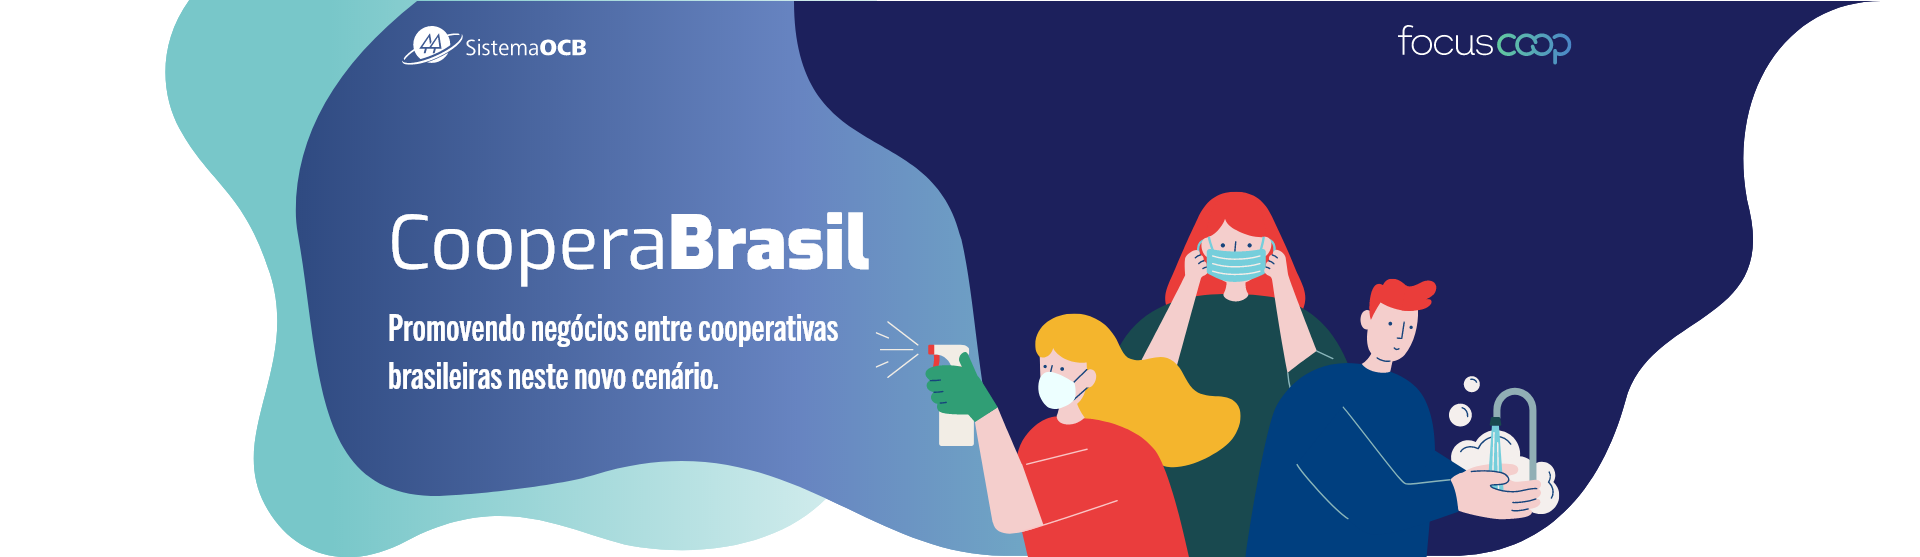
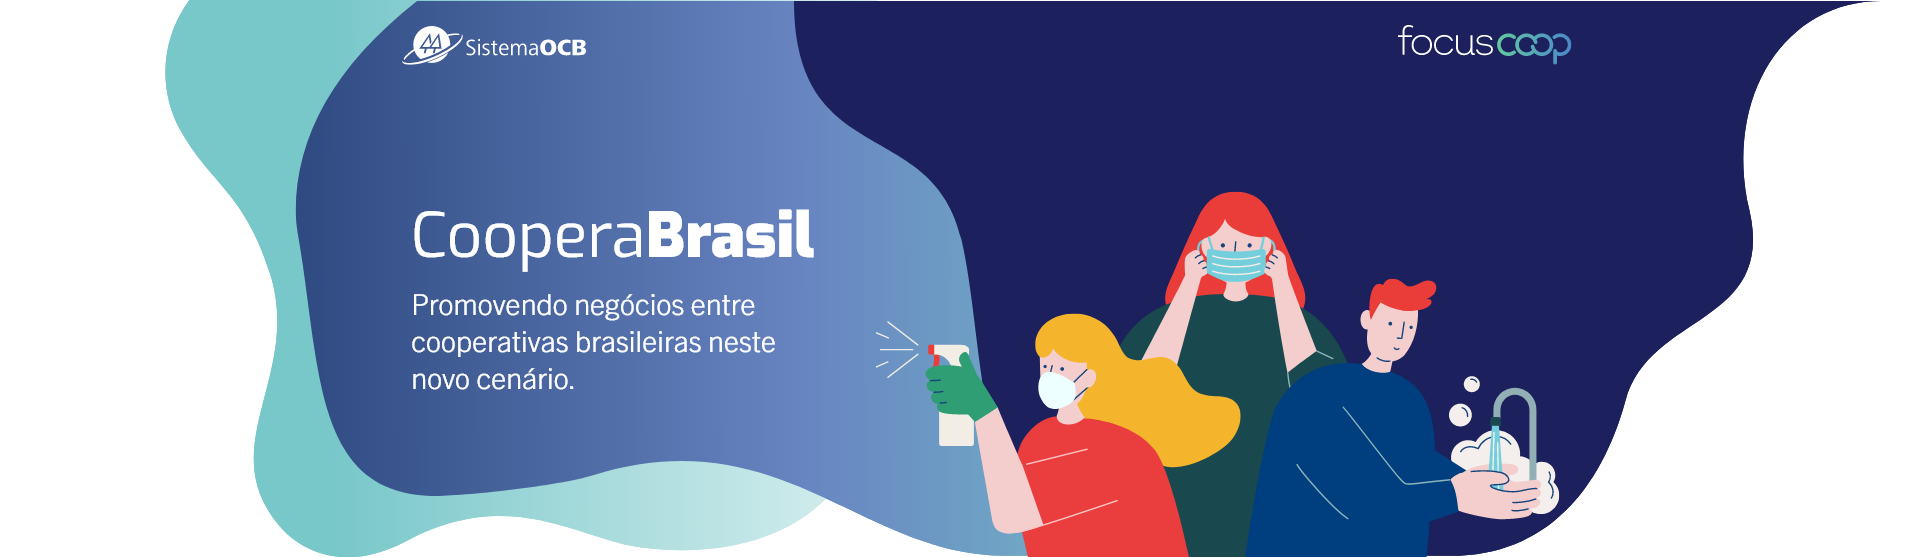
...

Changed region(s): [[0.1875, 0.3662, 0.4688, 0.702]]

diff --git a/public/front/assets/css/style.css b/public/front/assets/css/style.css
@@ -121,15 +121,18 @@ span, p {
     width: 100vw;
     padding: 4rem 2rem !important;
     background-color: #1C205C;
-    color: white;
-    font-size: 1.8rem;
-    text-transform: uppercase;
-    font-family: "Nunito", sans-serif;
     text-align: right;
     background-image: url("../images/footer-menu.svg");
     background-repeat: no-repeat;
     background-position: 0 90vh;
     background-size: contain;
+}
+
+.sidenav-mobile * {
+    color: white;
+    font-size: 1.8rem;
+    text-transform: uppercase;
+    font-family: "Nunito", sans-serif;
 }
 
 .close-btn-sidenav {
@@ -142,6 +145,11 @@ span, p {
     border-bottom: 1px solid #78C7C9;
     text-align: center;
     padding: 1rem 0;
+}
+
+.sidenav-mobile li > a {
+    color: white;
+    font-size: 1.8rem;
 }
 
 .sidenav-mobile ul {
@@ -265,6 +273,7 @@ select.browser-default {
     background-size: contain;
     background-repeat: no-repeat;
     transition-duration: .3s;
+    padding-right: 23%;
 }
 
 select.browser-default:focus {
@@ -557,9 +566,42 @@ option {
 }
 
 
+@media (max-width: 1300px) {
+    .menu {
+        margin: 4rem 0 2rem;
+    }
+
+    .geral-header {
+        height: 35vw;
+    }
+
+    h2 {
+        padding: 0;
+        font-size: 3rem;
+    }
+
+    .sobre {
+        padding: 0;
+    }
+
+    #map {
+        zoom: 85%;
+    }
+}
+
+@media (max-width: 1180px) {
+    #map {
+        zoom: 70%
+    }
+}
+
 @media (max-width: 768px) {
     .header-1 {
         background-image: url("../images/bg-header-1-m.png");
+    }
+
+    .header-2 {
+        background-image: url("../images/bg-header-2-m.png");
     }
 
     .col-titulo {
@@ -584,6 +626,10 @@ option {
         background-color: #6784C1;
     }
 
+    .primeira-row {
+        flex-direction: column;
+    }
+
     .menu {
         display: none
     }
@@ -598,34 +644,5 @@ option {
 
     #map {
         zoom: 75%;
-    }
-}
-
-@media (max-width: 1180px) {
-    #map {
-        zoom: 70%
-    }
-}
-
-@media (max-width: 1300px) {
-    .menu {
-        margin: 4rem 0 2rem;
-    }
-
-    .geral-header {
-        height: 35vw;
-    }
-
-    h2 {
-        padding: 0;
-        font-size: 3rem;
-    }
-
-    .sobre {
-        padding: 0;
-    }
-
-    #map {
-        zoom: 85%;
     }
 }

diff --git a/resources/js/components/Home.vue b/resources/js/components/Home.vue
@@ -2,7 +2,7 @@
     <div>
         <div v-if="resultado.data">
             <div class="geral-header header-2">
-                <menu-front></menu-front>
+                <menu-front :resultado="resultado.data.length > 0"></menu-front>
             </div>
             <div class="div-geral-1">
                 <div class="container">
@@ -205,7 +205,7 @@
             </div>
             <div class="div-geral-1">
                 <div class="container">
-                    <div class="row align-items-center">
+                    <div class="row align-items-center primeira-row">
                         <div class="col l6 m6 s12">
                             <h2>O que é o<br> CooperaBrasil?</h2>
                         </div>

diff --git a/resources/js/components/Menu.vue b/resources/js/components/Menu.vue
@@ -39,6 +39,14 @@
                 </div>
             </div>
         </div>
+        <div class="row hide-on-large-only" v-if="!resultado">
+            <div class="col l5 m5 s12 col-titulo">
+                <h1 class="titulo">Coopera<strong>Brasil</strong></h1>
+                <p class="proposta">
+                    Promovendo negócios entre cooperativas brasileiras neste novo cenário.
+                </p>
+            </div>
+        </div>
     </div>
 </template>
 <script>
@@ -57,6 +65,7 @@
                 location.reload();
             }
         },
+        props: ['resultado'],
         computed: {},
     };
 </script>
